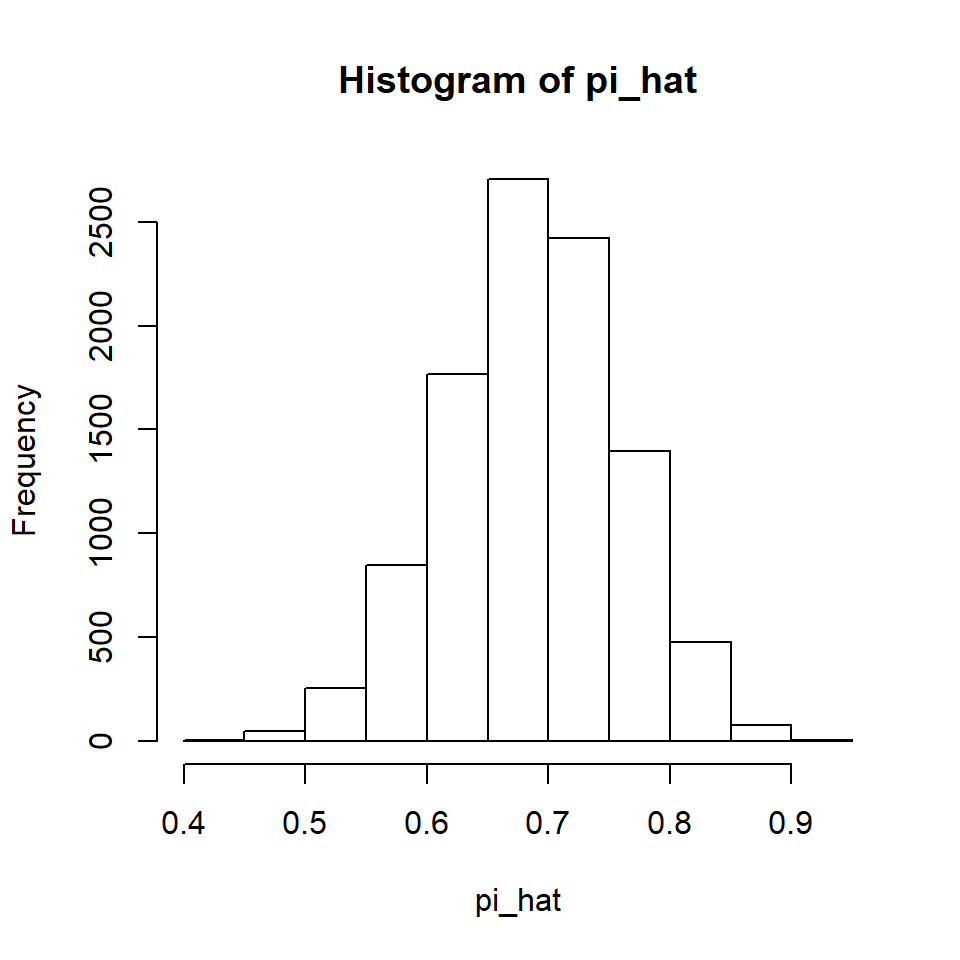
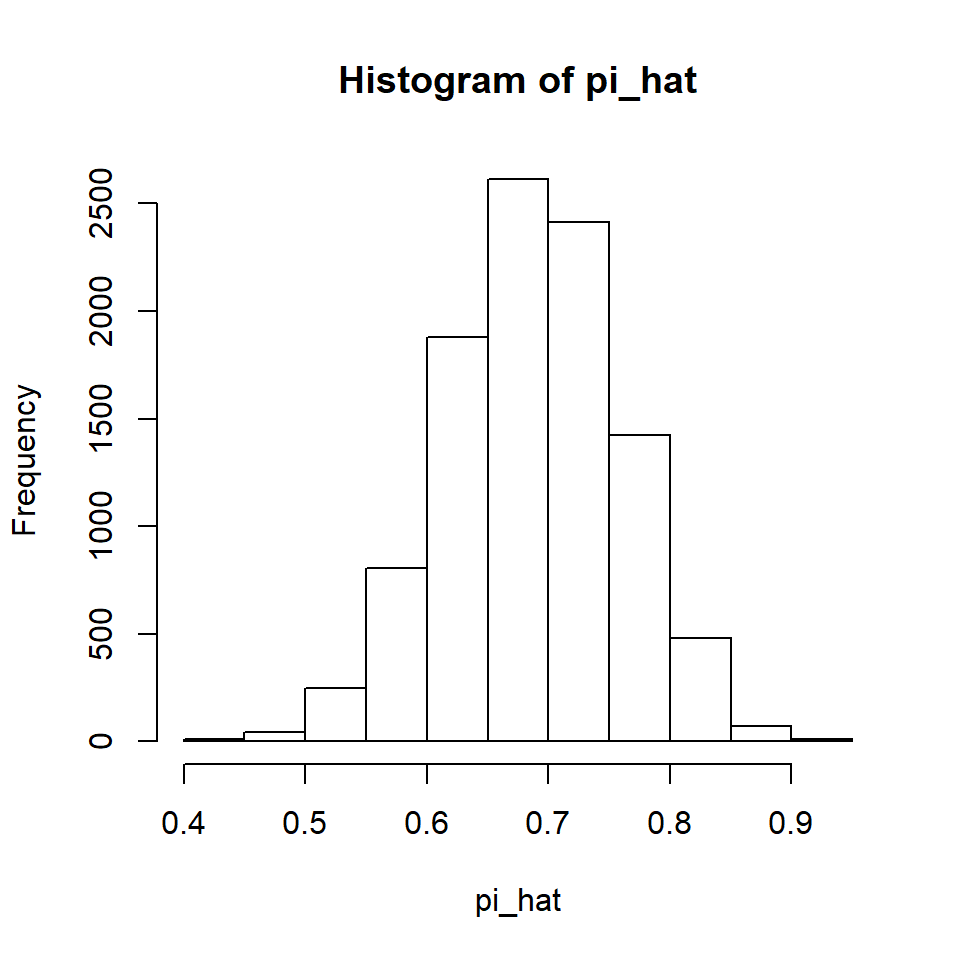
Completed exact inference of one proportion

diff --git a/docs/articles/OnePropExact.html b/docs/articles/OnePropExact.html
@@ -30,7 +30,7 @@
       </button>
       <span class="navbar-brand">
         <a class="navbar-link" href="../index.html">nplearn</a>
-        <span class="version label label-danger" data-toggle="tooltip" data-placement="bottom" title="Unreleased version">0.0.0.9004</span>
+        <span class="version label label-danger" data-toggle="tooltip" data-placement="bottom" title="Unreleased version">0.0.0.9005</span>
       </span>
     </div>
 
@@ -108,8 +108,8 @@
 <li>The observations are independent of each other</li>
 </ul>
 <p>Considering the first condition, we can see that if this condition is met that it will satisfy at least a portion of the second condition. The units of analysis will not be related to each other if we indeed selected at random from the population. The only additional consideration we need to make in the design and measurement phase is to make sure that we keep it that way. That is, we should not establish a relationship among our observations by letting the measurement of one unit influence the measurement of another unit. For example, we will not let one person observe the measurement of another person, such as would happen if we survey individuals in earshot of one another or let individuals collaborate on a measurement task.</p>
-<p>It is probably obvious to you that in many disciplines it is the first of these conditions that is more difficult to achieve. We seldom have access to the entire population of interest, even if we do have the means to select a random sample. All is not lost! If can randomly sample from an accessible population, and if we know something about the characteristics of this population, we can estimate the proportion for this population. If our real interest is in some larger population, we at least have more information about a subset of that population, which would suggest that future study might be replication with additional subsets.</p>
-<p>What if we cannot randomly sample from any population but are instead confined to something a bit more convenient? This may happen due to limited funding or the unwillingness of individuals to become study participants. There are still inferences to be made, but we should be aware that it may not be the inference we hoped to make. We can envision some hypothetical population that could very well have yielded a random sample that is the sample we have at hand. For example, a study conducted with a class of undergraduate psychology students could be considered as representative of undergraduate psychology students in other classes that semester, as well as the type of students who very well might have enrolled in psychology, but decided to postpone it for another time. Assuming that time dose not influence the response variable of interest (which is probably not a very reasonable assumption for many response variables as more time goes by), we can even consider past students in undergraduate psychology courses as part of this hypothetical population. The key point is that we cannot know exactly what this population looks like, but we may know some key characteristics of this population and we must restrict our inference based on these characteristics.</p>
+<p>It is probably obvious to you that in many disciplines it is the first of these conditions that is more difficult to achieve. We seldom have access to the entire population of interest, even if we do have the means to select a random sample. All is not lost! If we can randomly sample from an accessible population, and if we know something about the characteristics of this population, we can estimate the proportion for this population. If our real interest is in some larger population, we at least have more information about a subset of that population, which would suggest that future study might be replication with additional subsets.</p>
+<p>What if we cannot randomly sample from any population but are instead confined to something a bit more convenient? This may happen due to limited funding or the unwillingness of individuals to become study participants. There are still inferences to be made, but we should be aware that it may not be the inference we hoped to make. We can envision some hypothetical population that could very well have yielded a random sample that is the sample we have at hand. For example, a study conducted with a class of undergraduate psychology students could be considered as representative of undergraduate psychology students in other classes that semester, as well as the type of students who very well might have enrolled in psychology, but decided to postpone it for another time. Assuming that time does not influence the response variable of interest (which is probably not a very reasonable assumption for many response variables as more time goes by), we can even consider past students in undergraduate psychology courses as part of this hypothetical population. The key point is that we cannot know exactly what this population looks like, but we may know some key characteristics of this population and we must restrict our inference based on these characteristics.</p>
 <p>The above reasoning may convince us that there is still value to making inferences, even when we have not met the condition of random sampling, but it should also give us pause when we think about the term “exact” when talking about exact inferences. The term is precise when the conditions are completely met. We can calculate our error rates and be confident about our stated level of confidence. If we have not used random sampling or if our units are not independent of one another (as they are not apt to be if we have not randomly sampled), the term <em>exact</em> applies to our cacluations, yet our inferences are not exactly known. This is not peculiar to nonparametric statistical methods, but is a consequence of inference, regardless whether parametric or nonparametric methods are being employed. In fact, this situation is more apt to apply to parametric methods due to the longer list of conditions that often include conditions that are even more difficult to justify than those we need for inferences for a single proportion.</p>
 <p>When estimating a proprtion, there is one type of research study in which random sampling is not even an issue. Consider a well-known population proportion, such as a the proportion of examinees who exceed a specified score on a standardized test or a long-time treatment with an established cure rate. We might be interested in whether individuals in a test prep program or patients receiving a new treatment can be considered as random samples of the aforementioned populations. In these cases an inference that points to a different proportion exceeding a score or achieving a cure suggests that we do <em>not</em> have a random sample from the population, yet that is what we wanted to know! If the test preparation or the newer treatment results in different proportions than those that have been established through long-term observation, we have observations from a different population, such as one that is scoring higher or being cured more often.</p>
 </div>
@@ -208,7 +208,7 @@
 <div id="a-confidence-interval-for-a-proportion" class="section level3">
 <h3 class="hasAnchor">
 <a href="#a-confidence-interval-for-a-proportion" class="anchor"></a>A confidence interval for a proportion</h3>
-<p>Using both of the examples above, I will build confidence intervals (one lower-bounded and one two-sided)by inverting the hypothesis tests.</p>
+<p>Using both of the examples above, I will build confidence intervals (one lower-bounded and one two-sided) by inverting the hypotheses tests.</p>
 <p>If a treatment has a known cure rate of 60% and a new treatment cures 14 out of 16 patients who agreed to try the new treatment, how much better is the new treatment? Estimate the new cure rate with 90% confidence.</p>
 <p>Let’s use the exact binomial test to test all possible hypotheses. (I’ll actually start with the old treatment cure rate to keep our output more manageable.) For this problem, we will calculate the <span class="math inline">\(p\)</span> values using the upper tail.</p>
 <div class="sourceCode" id="cb17"><pre class="sourceCode r"><code class="sourceCode r"><span id="cb17-1"><a href="#cb17-1"></a>h_<span class="dv">0</span> &lt;-<span class="st"> </span><span class="kw"><a href="https://www.rdocumentation.org/packages/base/topics/seq">seq</a></span>(<span class="fl">0.60</span>, <span class="dv">1</span>, <span class="dt">by =</span> <span class="fl">0.01</span>)</span>
@@ -302,46 +302,48 @@
 <span id="cb19-26"><a href="#cb19-26"></a>  <span class="kw"><a href="https://www.rdocumentation.org/packages/base/topics/function">return</a></span>(<span class="kw"><a href="https://www.rdocumentation.org/packages/stats/topics/Binomial">pbinom</a></span>(a, b, c) <span class="op">+</span><span class="st"> </span><span class="kw"><a href="https://www.rdocumentation.org/packages/stats/topics/Binomial">pbinom</a></span>(up_val <span class="op">-</span><span class="st"> </span><span class="dv">1</span>, b, c, <span class="dt">lower.tail =</span> <span class="ot">FALSE</span>))</span>
 <span id="cb19-27"><a href="#cb19-27"></a>}</span>
 <span id="cb19-28"><a href="#cb19-28"></a></span>
-<span id="cb19-29"><a href="#cb19-29"></a>p_val &lt;-<span class="st"> </span><span class="kw"><a href="https://www.rdocumentation.org/packages/base/topics/ifelse">ifelse</a></span> (pi_hat <span class="op">&gt;</span><span class="st"> </span>h_<span class="dv">0</span>,</span>
-<span id="cb19-30"><a href="#cb19-30"></a>                 <span class="kw">pi_hat_greater</span>(x, n, h_<span class="dv">0</span>),</span>
-<span id="cb19-31"><a href="#cb19-31"></a>                 <span class="kw">pi_hat_less</span>(x, n, h_<span class="dv">0</span>))</span>
-<span id="cb19-32"><a href="#cb19-32"></a></span>
-<span id="cb19-33"><a href="#cb19-33"></a><span class="co"># Determine the outcome</span></span>
-<span id="cb19-34"><a href="#cb19-34"></a>outcome &lt;-<span class="st"> </span><span class="kw"><a href="https://www.rdocumentation.org/packages/base/topics/ifelse">ifelse</a></span>(p_val <span class="op">&lt;=</span><span class="st"> </span><span class="fl">.05</span>, <span class="st">"reject"</span>, <span class="st">"retain"</span>)</span>
-<span id="cb19-35"><a href="#cb19-35"></a><span class="co"># Display results</span></span>
-<span id="cb19-36"><a href="#cb19-36"></a><span class="kw"><a href="https://www.rdocumentation.org/packages/base/topics/cbind">cbind</a></span>(h_<span class="dv">0</span>, p_val, outcome)</span>
-<span id="cb19-37"><a href="#cb19-37"></a><span class="co">#&gt;       h_0    p_val                  outcome </span></span>
-<span id="cb19-38"><a href="#cb19-38"></a><span class="co">#&gt;  [1,] "0"    "0"                    "reject"</span></span>
-<span id="cb19-39"><a href="#cb19-39"></a><span class="co">#&gt;  [2,] "0.01" "3.61597705838997e-14" "reject"</span></span>
-<span id="cb19-40"><a href="#cb19-40"></a><span class="co">#&gt;  [3,] "0.02" "1.58466568159866e-09" "reject"</span></span>
-<span id="cb19-41"><a href="#cb19-41"></a><span class="co">#&gt;  [4,] "0.03" "5.19079773106855e-07" "reject"</span></span>
-<span id="cb19-42"><a href="#cb19-42"></a><span class="co">#&gt;  [5,] "0.04" "2.28444171789944e-05" "reject"</span></span>
-<span id="cb19-43"><a href="#cb19-43"></a><span class="co">#&gt;  [6,] "0.05" "0.000334239131290808" "reject"</span></span>
-<span id="cb19-44"><a href="#cb19-44"></a><span class="co">#&gt;  [7,] "0.06" "0.00243577888657468"  "reject"</span></span>
-<span id="cb19-45"><a href="#cb19-45"></a><span class="co">#&gt;  [8,] "0.07" "0.0117339085847196"   "reject"</span></span>
-<span id="cb19-46"><a href="#cb19-46"></a><span class="co">#&gt;  [9,] "0.08" "0.051692873382411"    "retain"</span></span>
-<span id="cb19-47"><a href="#cb19-47"></a><span class="co">#&gt; [10,] "0.09" "0.126664758568051"    "retain"</span></span>
-<span id="cb19-48"><a href="#cb19-48"></a><span class="co">#&gt; [11,] "0.1"  "0.307396410227212"    "retain"</span></span>
-<span id="cb19-49"><a href="#cb19-49"></a><span class="co">#&gt; [12,] "0.11" "0.578208699903566"    "retain"</span></span>
-<span id="cb19-50"><a href="#cb19-50"></a><span class="co">#&gt; [13,] "0.12" "0.78823258600851"     "retain"</span></span>
-<span id="cb19-51"><a href="#cb19-51"></a><span class="co">#&gt; [14,] "0.13" "1"                    "retain"</span></span>
-<span id="cb19-52"><a href="#cb19-52"></a><span class="co">#&gt; [15,] "0.14" "0.80237859813876"     "retain"</span></span>
-<span id="cb19-53"><a href="#cb19-53"></a><span class="co">#&gt; [16,] "0.15" "0.544485718640118"    "retain"</span></span>
-<span id="cb19-54"><a href="#cb19-54"></a><span class="co">#&gt; [17,] "0.16" "0.346328031101614"    "retain"</span></span>
-<span id="cb19-55"><a href="#cb19-55"></a><span class="co">#&gt; [18,] "0.17" "0.246160152973726"    "retain"</span></span>
-<span id="cb19-56"><a href="#cb19-56"></a><span class="co">#&gt; [19,] "0.18" "0.140725928444915"    "retain"</span></span>
-<span id="cb19-57"><a href="#cb19-57"></a><span class="co">#&gt; [20,] "0.19" "0.0759841014234179"   "retain"</span></span>
-<span id="cb19-58"><a href="#cb19-58"></a><span class="co">#&gt; [21,] "0.2"  "0.0492258004585849"   "reject"</span></span>
-<span id="cb19-59"><a href="#cb19-59"></a><span class="co">#&gt; [22,] "0.21" "0.0241471386866497"   "reject"</span></span>
-<span id="cb19-60"><a href="#cb19-60"></a><span class="co">#&gt; [23,] "0.22" "0.0112353946905877"   "reject"</span></span>
-<span id="cb19-61"><a href="#cb19-61"></a><span class="co">#&gt; [24,] "0.23" "0.00688520741469472"  "reject"</span></span>
-<span id="cb19-62"><a href="#cb19-62"></a><span class="co">#&gt; [25,] "0.24" "0.00293131460859641"  "reject"</span></span>
-<span id="cb19-63"><a href="#cb19-63"></a><span class="co">#&gt; [26,] "0.25" "0.0018119232311538"   "reject"</span></span>
-<span id="cb19-64"><a href="#cb19-64"></a><span class="co">#&gt; [27,] "0.26" "0.000708425744407884" "reject"</span></span>
-<span id="cb19-65"><a href="#cb19-65"></a><span class="co">#&gt; [28,] "0.27" "0.000262230507511154" "reject"</span></span>
-<span id="cb19-66"><a href="#cb19-66"></a><span class="co">#&gt; [29,] "0.28" "0.000160126996474669" "reject"</span></span>
-<span id="cb19-67"><a href="#cb19-67"></a><span class="co">#&gt; [30,] "0.29" "5.42162481835015e-05" "reject"</span></span>
-<span id="cb19-68"><a href="#cb19-68"></a><span class="co">#&gt; [31,] "0.3"  "1.72855023244583e-05" "reject"</span></span></code></pre></div>
+<span id="cb19-29"><a href="#cb19-29"></a><span class="co"># Determine whether pi_hat is above or below h_0, then call the appropriate </span></span>
+<span id="cb19-30"><a href="#cb19-30"></a><span class="co"># function.</span></span>
+<span id="cb19-31"><a href="#cb19-31"></a>p_val &lt;-<span class="st"> </span><span class="kw"><a href="https://www.rdocumentation.org/packages/base/topics/ifelse">ifelse</a></span> (pi_hat <span class="op">&gt;</span><span class="st"> </span>h_<span class="dv">0</span>,</span>
+<span id="cb19-32"><a href="#cb19-32"></a>                 <span class="kw">pi_hat_greater</span>(x, n, h_<span class="dv">0</span>),</span>
+<span id="cb19-33"><a href="#cb19-33"></a>                 <span class="kw">pi_hat_less</span>(x, n, h_<span class="dv">0</span>))</span>
+<span id="cb19-34"><a href="#cb19-34"></a></span>
+<span id="cb19-35"><a href="#cb19-35"></a><span class="co"># Determine the outcome</span></span>
+<span id="cb19-36"><a href="#cb19-36"></a>outcome &lt;-<span class="st"> </span><span class="kw"><a href="https://www.rdocumentation.org/packages/base/topics/ifelse">ifelse</a></span>(p_val <span class="op">&lt;=</span><span class="st"> </span><span class="fl">.05</span>, <span class="st">"reject"</span>, <span class="st">"retain"</span>)</span>
+<span id="cb19-37"><a href="#cb19-37"></a><span class="co"># Display results</span></span>
+<span id="cb19-38"><a href="#cb19-38"></a><span class="kw"><a href="https://www.rdocumentation.org/packages/base/topics/cbind">cbind</a></span>(h_<span class="dv">0</span>, p_val, outcome)</span>
+<span id="cb19-39"><a href="#cb19-39"></a><span class="co">#&gt;       h_0    p_val                  outcome </span></span>
+<span id="cb19-40"><a href="#cb19-40"></a><span class="co">#&gt;  [1,] "0"    "0"                    "reject"</span></span>
+<span id="cb19-41"><a href="#cb19-41"></a><span class="co">#&gt;  [2,] "0.01" "3.61597705838997e-14" "reject"</span></span>
+<span id="cb19-42"><a href="#cb19-42"></a><span class="co">#&gt;  [3,] "0.02" "1.58466568159866e-09" "reject"</span></span>
+<span id="cb19-43"><a href="#cb19-43"></a><span class="co">#&gt;  [4,] "0.03" "5.19079773106855e-07" "reject"</span></span>
+<span id="cb19-44"><a href="#cb19-44"></a><span class="co">#&gt;  [5,] "0.04" "2.28444171789944e-05" "reject"</span></span>
+<span id="cb19-45"><a href="#cb19-45"></a><span class="co">#&gt;  [6,] "0.05" "0.000334239131290808" "reject"</span></span>
+<span id="cb19-46"><a href="#cb19-46"></a><span class="co">#&gt;  [7,] "0.06" "0.00243577888657468"  "reject"</span></span>
+<span id="cb19-47"><a href="#cb19-47"></a><span class="co">#&gt;  [8,] "0.07" "0.0117339085847196"   "reject"</span></span>
+<span id="cb19-48"><a href="#cb19-48"></a><span class="co">#&gt;  [9,] "0.08" "0.051692873382411"    "retain"</span></span>
+<span id="cb19-49"><a href="#cb19-49"></a><span class="co">#&gt; [10,] "0.09" "0.126664758568051"    "retain"</span></span>
+<span id="cb19-50"><a href="#cb19-50"></a><span class="co">#&gt; [11,] "0.1"  "0.307396410227212"    "retain"</span></span>
+<span id="cb19-51"><a href="#cb19-51"></a><span class="co">#&gt; [12,] "0.11" "0.578208699903566"    "retain"</span></span>
+<span id="cb19-52"><a href="#cb19-52"></a><span class="co">#&gt; [13,] "0.12" "0.78823258600851"     "retain"</span></span>
+<span id="cb19-53"><a href="#cb19-53"></a><span class="co">#&gt; [14,] "0.13" "1"                    "retain"</span></span>
+<span id="cb19-54"><a href="#cb19-54"></a><span class="co">#&gt; [15,] "0.14" "0.80237859813876"     "retain"</span></span>
+<span id="cb19-55"><a href="#cb19-55"></a><span class="co">#&gt; [16,] "0.15" "0.544485718640118"    "retain"</span></span>
+<span id="cb19-56"><a href="#cb19-56"></a><span class="co">#&gt; [17,] "0.16" "0.346328031101614"    "retain"</span></span>
+<span id="cb19-57"><a href="#cb19-57"></a><span class="co">#&gt; [18,] "0.17" "0.246160152973726"    "retain"</span></span>
+<span id="cb19-58"><a href="#cb19-58"></a><span class="co">#&gt; [19,] "0.18" "0.140725928444915"    "retain"</span></span>
+<span id="cb19-59"><a href="#cb19-59"></a><span class="co">#&gt; [20,] "0.19" "0.0759841014234179"   "retain"</span></span>
+<span id="cb19-60"><a href="#cb19-60"></a><span class="co">#&gt; [21,] "0.2"  "0.0492258004585849"   "reject"</span></span>
+<span id="cb19-61"><a href="#cb19-61"></a><span class="co">#&gt; [22,] "0.21" "0.0241471386866497"   "reject"</span></span>
+<span id="cb19-62"><a href="#cb19-62"></a><span class="co">#&gt; [23,] "0.22" "0.0112353946905877"   "reject"</span></span>
+<span id="cb19-63"><a href="#cb19-63"></a><span class="co">#&gt; [24,] "0.23" "0.00688520741469472"  "reject"</span></span>
+<span id="cb19-64"><a href="#cb19-64"></a><span class="co">#&gt; [25,] "0.24" "0.00293131460859641"  "reject"</span></span>
+<span id="cb19-65"><a href="#cb19-65"></a><span class="co">#&gt; [26,] "0.25" "0.0018119232311538"   "reject"</span></span>
+<span id="cb19-66"><a href="#cb19-66"></a><span class="co">#&gt; [27,] "0.26" "0.000708425744407884" "reject"</span></span>
+<span id="cb19-67"><a href="#cb19-67"></a><span class="co">#&gt; [28,] "0.27" "0.000262230507511154" "reject"</span></span>
+<span id="cb19-68"><a href="#cb19-68"></a><span class="co">#&gt; [29,] "0.28" "0.000160126996474669" "reject"</span></span>
+<span id="cb19-69"><a href="#cb19-69"></a><span class="co">#&gt; [30,] "0.29" "5.42162481835015e-05" "reject"</span></span>
+<span id="cb19-70"><a href="#cb19-70"></a><span class="co">#&gt; [31,] "0.3"  "1.72855023244583e-05" "reject"</span></span></code></pre></div>
 <p>We now have a 95% exact confidence interval from (and including) 0.08 to 0.19. Let’s see how this compares to the base R function.</p>
 <div class="sourceCode" id="cb20"><pre class="sourceCode r"><code class="sourceCode r"><span id="cb20-1"><a href="#cb20-1"></a><span class="kw"><a href="https://www.rdocumentation.org/packages/stats/topics/binom.test">binom.test</a></span>(<span class="dv">17</span>, <span class="dv">132</span>)</span>
 <span id="cb20-2"><a href="#cb20-2"></a><span class="co">#&gt; </span></span>
@@ -361,7 +363,7 @@
 <div id="power-for-the-exact-test-of-a-proportion" class="section level3">
 <h3 class="hasAnchor">
 <a href="#power-for-the-exact-test-of-a-proportion" class="anchor"></a>Power for the exact test of a proportion</h3>
-<p>Power is the probability of rejecting a null hypothesis when a specific alternative hypothesis is correct. Recall this question that we consider earlier.</p>
+<p>Power is the probability of rejecting a null hypothesis when a specific alternative hypothesis is correct. Recall this question that we considered earlier.</p>
 <p>If a treatment has a known cure rate of 60% and a new treatment cures 14 out of 16 patients who agreed to try the new treatment, is there enough evidence to say with 90% confidence that the new treatment has a better cure rate?</p>
 <p>Here are the hypotheses that we used to answer this question.</p>
 <p><span class="math inline">\(H_0: \pi = 0.60\)</span></p>
@@ -385,7 +387,7 @@
 <li>Find the critical value(s) using the null hypothesized proportion.</li>
 <li>Find the probability of being in the rejection region when the simple alternative hypothesis is correct.</li>
 </ol>
-<p>Let’s do it. First, let’s adopt a maximum acceptable Type I error rate of 10%, or 0.10. Now we need the critical value for our one-sided test. we want our rejection region to be no more than 10% so we seek the 90th percentile, our sample size is 16, and the null hypothesized probability is 0.60.</p>
+<p>Let’s do it. First, let’s adopt a maximum acceptable Type I error rate of 10%, or 0.10. Now we need the critical value for our one-sided test. We want our rejection region to be no more than 10% so we seek the 90th percentile, our sample size is 16, and the null hypothesized probability is 0.60.</p>
 <div class="sourceCode" id="cb23"><pre class="sourceCode r"><code class="sourceCode r"><span id="cb23-1"><a href="#cb23-1"></a>cv &lt;-<span class="st"> </span><span class="kw"><a href="https://www.rdocumentation.org/packages/stats/topics/Binomial">qbinom</a></span>(<span class="fl">0.90</span>, <span class="dv">16</span>, <span class="fl">0.60</span>)</span>
 <span id="cb23-2"><a href="#cb23-2"></a>cv</span>
 <span id="cb23-3"><a href="#cb23-3"></a><span class="co">#&gt; [1] 12</span></span></code></pre></div>
@@ -409,12 +411,12 @@
 <li>Use a higher cure rate for our simple alternative hypothesis.</li>
 <li>Increase the sample size.</li>
 </ul>
-<p>The first option means that we can make mistakes more often. We will have a hard time establishing credibility in our discipline if we raise this too high. The second option suggests we are not really interesting in detecting a cure rate of 70%, yet have the rate increase by 10 percentage points would seem quite substantial to most people, especially if you have contracted this illness. That leaves us with the final option, which may be costly, but such is the price of science. If we can’t increase our sample size, we’ll have to live with one of the first two options recognizing that there are consequences to conducting research with small samples.</p>
+<p>The first option means that we can make mistakes more often. We will have a hard time establishing credibility in our discipline if we raise this too high. The second option suggests we are not really interesting in detecting a cure rate of 70%, yet having the rate increase by 10 percentage points would seem quite substantial to most people, especially if you have contracted this illness. That leaves us with the final option, which may be costly, but such is the price of science. If we can’t increase our sample size, we’ll have to live with one of the first two options recognizing that there are consequences to conducting research with small samples.</p>
 <p>If we <em>can</em> increase the sample size, we should do so. But by how much? Power analysis is useful for helping us determine this. This is a trial and error process. We increase the sample size and then repeat the above steps to see if we are there yet. Let’s get wild and increase our sample size to 100.</p>
 <div class="sourceCode" id="cb28"><pre class="sourceCode r"><code class="sourceCode r"><span id="cb28-1"><a href="#cb28-1"></a>cv &lt;-<span class="st"> </span><span class="kw"><a href="https://www.rdocumentation.org/packages/stats/topics/Binomial">qbinom</a></span>(<span class="fl">0.90</span>, <span class="dv">100</span>, <span class="fl">0.60</span>) <span class="op">+</span><span class="st"> </span><span class="dv">1</span></span>
 <span id="cb28-2"><a href="#cb28-2"></a><span class="kw"><a href="https://www.rdocumentation.org/packages/stats/topics/Binomial">pbinom</a></span>(cv<span class="dv">-1</span>, <span class="dv">100</span>, <span class="fl">0.70</span>, <span class="dt">lower.tail =</span> <span class="ot">FALSE</span>)</span>
 <span id="cb28-3"><a href="#cb28-3"></a><span class="co">#&gt; [1] 0.7792578</span></span></code></pre></div>
-<p>We’re still not there, but almost! We can actually all of the above on one line. Let’s try 105.</p>
+<p>We’re still not there, but almost! We can actually put all of the above on one line. Let’s try 105.</p>
 <div class="sourceCode" id="cb29"><pre class="sourceCode r"><code class="sourceCode r"><span id="cb29-1"><a href="#cb29-1"></a><span class="kw"><a href="https://www.rdocumentation.org/packages/stats/topics/Binomial">pbinom</a></span>(<span class="kw"><a href="https://www.rdocumentation.org/packages/stats/topics/Binomial">qbinom</a></span>(<span class="fl">0.90</span>, <span class="dv">105</span>, <span class="fl">0.60</span>), <span class="dv">105</span>, <span class="fl">0.70</span>, <span class="dt">lower.tail =</span> <span class="ot">FALSE</span>)</span>
 <span id="cb29-2"><a href="#cb29-2"></a><span class="co">#&gt; [1] 0.8039252</span></span></code></pre></div>
 <p>That’s got it! What if we had tried 104.</p>

diff --git a/docs/articles/lsprop.html b/docs/articles/lsprop.html
@@ -30,7 +30,7 @@
       </button>
       <span class="navbar-brand">
         <a class="navbar-link" href="../index.html">nplearn</a>
-        <span class="version label label-danger" data-toggle="tooltip" data-placement="bottom" title="Unreleased version">0.0.0.9004</span>
+        <span class="version label label-danger" data-toggle="tooltip" data-placement="bottom" title="Unreleased version">0.0.0.9005</span>
       </span>
     </div>
 
@@ -109,8 +109,8 @@
 <span id="cb2-2"><a href="#cb2-2"></a>pi &lt;-<span class="st"> </span><span class="fl">0.7</span></span>
 <span id="cb2-3"><a href="#cb2-3"></a></span>
 <span id="cb2-4"><a href="#cb2-4"></a><span class="kw"><a href="https://www.rdocumentation.org/packages/Rlab/topics/Bernoulli">rbern</a></span>(n, pi)</span>
-<span id="cb2-5"><a href="#cb2-5"></a><span class="co">#&gt;  [1] 1 1 1 0 1 0 1 1 0 1 1 1 1 1 1 1 1 0 0 1 1 1 1 0 1 0 1 0 0 0 1 1 1 1 0</span></span>
-<span id="cb2-6"><a href="#cb2-6"></a><span class="co">#&gt; [36] 1 0 1 0 1</span></span></code></pre></div>
+<span id="cb2-5"><a href="#cb2-5"></a><span class="co">#&gt;  [1] 1 0 1 1 0 0 0 1 1 1 1 1 1 1 0 1 1 1 1 1 0 1 1 0 1 1 1 1 0 1 1 1 0 1 0</span></span>
+<span id="cb2-6"><a href="#cb2-6"></a><span class="co">#&gt; [36] 0 1 1 1 0</span></span></code></pre></div>
 <p>Now we will repeat this simulation 10,000 times. Each time, we will calculate the proportion success in the sample and save it.</p>
 <div class="sourceCode" id="cb3"><pre class="sourceCode r"><code class="sourceCode r"><span id="cb3-1"><a href="#cb3-1"></a>reps &lt;-<span class="st"> </span><span class="dv">10000</span></span>
 <span id="cb3-2"><a href="#cb3-2"></a></span>
@@ -120,7 +120,7 @@
 <p><img src="lsprop_files/figure-html/unnamed-chunk-4-1.png" width="480"></p>
 <p>We can see the CLT at work. Further, note that if we calculate the mean of all 10,000 values of the sample proportions, it is quite close to the population proportion of 0.7.</p>
 <div class="sourceCode" id="cb5"><pre class="sourceCode r"><code class="sourceCode r"><span id="cb5-1"><a href="#cb5-1"></a><span class="kw"><a href="https://www.rdocumentation.org/packages/base/topics/mean">mean</a></span>(pi_hat)</span>
-<span id="cb5-2"><a href="#cb5-2"></a><span class="co">#&gt; [1] 0.7000875</span></span></code></pre></div>
+<span id="cb5-2"><a href="#cb5-2"></a><span class="co">#&gt; [1] 0.7002575</span></span></code></pre></div>
 <p>When the mean of a statistic’s sampling distribution is the population value of the parameter the statistic is estimating, we refer to the statistic as <em>unbiased</em>. This is a desirable property because it tells us that the average of many wrongs is a right!</p>
 <p>If we increase the sample size, we can see the Law of Large Numbers at work. Let’s try increasing it from 40 to 200.</p>
 <div class="sourceCode" id="cb6"><pre class="sourceCode r"><code class="sourceCode r"><span id="cb6-1"><a href="#cb6-1"></a>n &lt;-<span class="st"> </span><span class="dv">200</span></span>

diff --git a/docs/articles/binomdist.html b/docs/articles/binomdist.html
@@ -30,7 +30,7 @@
       </button>
       <span class="navbar-brand">
         <a class="navbar-link" href="../index.html">nplearn</a>
-        <span class="version label label-danger" data-toggle="tooltip" data-placement="bottom" title="Unreleased version">0.0.0.9004</span>
+        <span class="version label label-danger" data-toggle="tooltip" data-placement="bottom" title="Unreleased version">0.0.0.9005</span>
       </span>
     </div>
 
@@ -276,7 +276,7 @@
 <p>The important trick to remember here is that if we want an upper tail that includes a specified value (in this case, the value of eight), we need to subtract one from this value to make sure it is included in the upper region of the distribution.</p>
 <p>Finally, suppose we wanted to do a simulation using the binomial distribution. Here are 20 random draws from a distribution with <span class="math inline">\(\pi\)</span> = 0.8 when the sample size is 15.</p>
 <div class="sourceCode" id="cb37"><pre class="sourceCode r"><code class="sourceCode r"><span id="cb37-1"><a href="#cb37-1"></a><span class="kw"><a href="https://www.rdocumentation.org/packages/stats/topics/Binomial">rbinom</a></span>(<span class="dv">20</span>, <span class="dv">15</span>, <span class="fl">0.8</span>)</span>
-<span id="cb37-2"><a href="#cb37-2"></a><span class="co">#&gt;  [1] 13 12 10 13 13 13 11 14 10 10 12 12 14  9 11 11 11 13 14 10</span></span></code></pre></div>
+<span id="cb37-2"><a href="#cb37-2"></a><span class="co">#&gt;  [1] 13 14  9 13 10 12 10 10 11 11 10 13 11 13 13 13 10 12  9 12</span></span></code></pre></div>
 <p>Keep in mind that what each number we are randomly generating is the value of <span class="math inline">\(x\)</span>, which is the number of successes in <span class="math inline">\(n\)</span> trials. In this example there are 15 opportunities for success. The probability of success is quite high, so we are primarily seeing high numbers of successes out of the 15 trials.</p>
 <p>In this example, we were drawing from a binomial distribution with <span class="math inline">\(n\)</span> trials and a probability of success, <span class="math inline">\(\pi\)</span>. These are the parameters of the binomial distribution. Any binomial distribution can be generated if we know these two parameters. Let’s end with a picture of a binomial distribution when <span class="math inline">\(n\)</span> = 100 and <span class="math inline">\(\pi\)</span> = 0.5.</p>
 <div class="sourceCode" id="cb38"><pre class="sourceCode r"><code class="sourceCode r"><span id="cb38-1"><a href="#cb38-1"></a><span class="kw"><a href="../reference/binom_plot.html">binom_plot</a></span>(<span class="dv">100</span>, <span class="fl">0.5</span>)</span></code></pre></div>

diff --git a/docs/articles/Bernoulli-Events.html b/docs/articles/Bernoulli-Events.html
@@ -30,7 +30,7 @@
       </button>
       <span class="navbar-brand">
         <a class="navbar-link" href="../index.html">nplearn</a>
-        <span class="version label label-danger" data-toggle="tooltip" data-placement="bottom" title="Unreleased version">0.0.0.9004</span>
+        <span class="version label label-danger" data-toggle="tooltip" data-placement="bottom" title="Unreleased version">0.0.0.9005</span>
       </span>
     </div>
 
@@ -189,10 +189,10 @@
 <a href="#random-variates" class="anchor"></a>Random variates</h3>
 <p>R also has (r) functions for many distributions (e.g., rnorm and rbern). These provide us a specified number of randomly seleted values from the corresponding distribution. These are known as “random variates”. This will be very handy when we study concepts such as Monte Carlo methods.</p>
 <div class="sourceCode" id="cb15"><pre class="sourceCode r"><code class="sourceCode r"><span id="cb15-1"><a href="#cb15-1"></a><span class="kw"><a href="https://www.rdocumentation.org/packages/stats/topics/Normal">rnorm</a></span>(<span class="dv">10</span>)</span>
-<span id="cb15-2"><a href="#cb15-2"></a><span class="co">#&gt;  [1] -0.02298854 -0.10317277 -0.77368353  0.63929705  0.76444826</span></span>
-<span id="cb15-3"><a href="#cb15-3"></a><span class="co">#&gt;  [6]  1.31061561  0.10970410  0.58772485  0.39153480  2.26978080</span></span>
+<span id="cb15-2"><a href="#cb15-2"></a><span class="co">#&gt;  [1]  0.07781155  0.05362289  0.94862998  0.01597652 -0.68606528</span></span>
+<span id="cb15-3"><a href="#cb15-3"></a><span class="co">#&gt;  [6] -0.83258883 -0.65621139  0.11574558  0.35671043  1.15616514</span></span>
 <span id="cb15-4"><a href="#cb15-4"></a><span class="kw">rbern</span>(<span class="dv">10</span>, <span class="fl">0.7</span>)</span>
-<span id="cb15-5"><a href="#cb15-5"></a><span class="co">#&gt;  [1] 1 0 1 1 0 1 1 1 0 1</span></span></code></pre></div>
+<span id="cb15-5"><a href="#cb15-5"></a><span class="co">#&gt;  [1] 1 1 1 0 1 0 1 1 1 1</span></span></code></pre></div>
 </div>
   </div>
 

diff --git a/doc/Bernoulli-Events.html b/doc/Bernoulli-Events.html
@@ -398,10 +398,10 @@ code > span.fu { color: #900; font-weight: bold; }  code > span.er { color: #a61
 <h3>Random variates</h3>
 <p>R also has (r) functions for many distributions (e.g., rnorm and rbern). These provide us a specified number of randomly seleted values from the corresponding distribution. These are known as “random variates”. This will be very handy when we study concepts such as Monte Carlo methods.</p>
 <div class="sourceCode" id="cb15"><pre class="sourceCode r"><code class="sourceCode r"><span id="cb15-1"><a href="#cb15-1"></a><span class="kw">rnorm</span>(<span class="dv">10</span>)</span>
-<span id="cb15-2"><a href="#cb15-2"></a><span class="co">#&gt;  [1]  1.2250551 -0.5432828 -0.4865864 -0.5378970  2.2431670  0.8417270</span></span>
-<span id="cb15-3"><a href="#cb15-3"></a><span class="co">#&gt;  [7] -0.6040713  0.5745338  2.6653287 -1.8061855</span></span>
+<span id="cb15-2"><a href="#cb15-2"></a><span class="co">#&gt;  [1] -2.312484804  0.011420027  0.536156455  0.001469691  1.324872313</span></span>
+<span id="cb15-3"><a href="#cb15-3"></a><span class="co">#&gt;  [6] -0.076216847  0.251745773 -0.926142878  0.153274433  0.931509732</span></span>
 <span id="cb15-4"><a href="#cb15-4"></a><span class="kw">rbern</span>(<span class="dv">10</span>, <span class="fl">0.7</span>)</span>
-<span id="cb15-5"><a href="#cb15-5"></a><span class="co">#&gt;  [1] 0 1 1 1 1 1 1 0 1 1</span></span></code></pre></div>
+<span id="cb15-5"><a href="#cb15-5"></a><span class="co">#&gt;  [1] 1 1 1 0 0 0 1 1 0 1</span></span></code></pre></div>
 </div>
 
 

diff --git a/docs/reference/binom_plot.html b/docs/reference/binom_plot.html
@@ -64,7 +64,7 @@ specified number of trials and a constant probability of success." />
       </button>
       <span class="navbar-brand">
         <a class="navbar-link" href="../index.html">nplearn</a>
-        <span class="version label label-danger" data-toggle="tooltip" data-placement="bottom" title="Unreleased version">0.0.0.9004</span>
+        <span class="version label label-danger" data-toggle="tooltip" data-placement="bottom" title="Unreleased version">0.0.0.9005</span>
       </span>
     </div>
 

diff --git a/docs/reference/power_plot.html b/docs/reference/power_plot.html
@@ -65,7 +65,7 @@ a maximum Type I error rate, and an optional power target." />
       </button>
       <span class="navbar-brand">
         <a class="navbar-link" href="../index.html">nplearn</a>
-        <span class="version label label-danger" data-toggle="tooltip" data-placement="bottom" title="Unreleased version">0.0.0.9004</span>
+        <span class="version label label-danger" data-toggle="tooltip" data-placement="bottom" title="Unreleased version">0.0.0.9005</span>
       </span>
     </div>
 

diff --git a/docs/reference/bern_plot.html b/docs/reference/bern_plot.html
@@ -64,7 +64,7 @@ specified probability of success of a Bernoulli event." />
       </button>
       <span class="navbar-brand">
         <a class="navbar-link" href="../index.html">nplearn</a>
-        <span class="version label label-danger" data-toggle="tooltip" data-placement="bottom" title="Unreleased version">0.0.0.9004</span>
+        <span class="version label label-danger" data-toggle="tooltip" data-placement="bottom" title="Unreleased version">0.0.0.9005</span>
       </span>
     </div>
 

diff --git a/docs/articles/Workflow-Sample.html b/docs/articles/Workflow-Sample.html
@@ -30,7 +30,7 @@
       </button>
       <span class="navbar-brand">
         <a class="navbar-link" href="../index.html">nplearn</a>
-        <span class="version label label-danger" data-toggle="tooltip" data-placement="bottom" title="Unreleased version">0.0.0.9004</span>
+        <span class="version label label-danger" data-toggle="tooltip" data-placement="bottom" title="Unreleased version">0.0.0.9005</span>
       </span>
     </div>
 

diff --git a/docs/articles/index.html b/docs/articles/index.html
@@ -60,7 +60,7 @@
       </button>
       <span class="navbar-brand">
         <a class="navbar-link" href="../index.html">nplearn</a>
-        <span class="version label label-danger" data-toggle="tooltip" data-placement="bottom" title="Unreleased version">0.0.0.9004</span>
+        <span class="version label label-danger" data-toggle="tooltip" data-placement="bottom" title="Unreleased version">0.0.0.9005</span>
       </span>
     </div>
 

diff --git a/docs/reference/index.html b/docs/reference/index.html
@@ -60,7 +60,7 @@
       </button>
       <span class="navbar-brand">
         <a class="navbar-link" href="../index.html">nplearn</a>
-        <span class="version label label-danger" data-toggle="tooltip" data-placement="bottom" title="Unreleased version">0.0.0.9004</span>
+        <span class="version label label-danger" data-toggle="tooltip" data-placement="bottom" title="Unreleased version">0.0.0.9005</span>
       </span>
     </div>
 

diff --git a/docs/reference/nplearn-package.html b/docs/reference/nplearn-package.html
@@ -65,7 +65,7 @@
       </button>
       <span class="navbar-brand">
         <a class="navbar-link" href="../index.html">nplearn</a>
-        <span class="version label label-danger" data-toggle="tooltip" data-placement="bottom" title="Unreleased version">0.0.0.9004</span>
+        <span class="version label label-danger" data-toggle="tooltip" data-placement="bottom" title="Unreleased version">0.0.0.9005</span>
       </span>
     </div>
 
